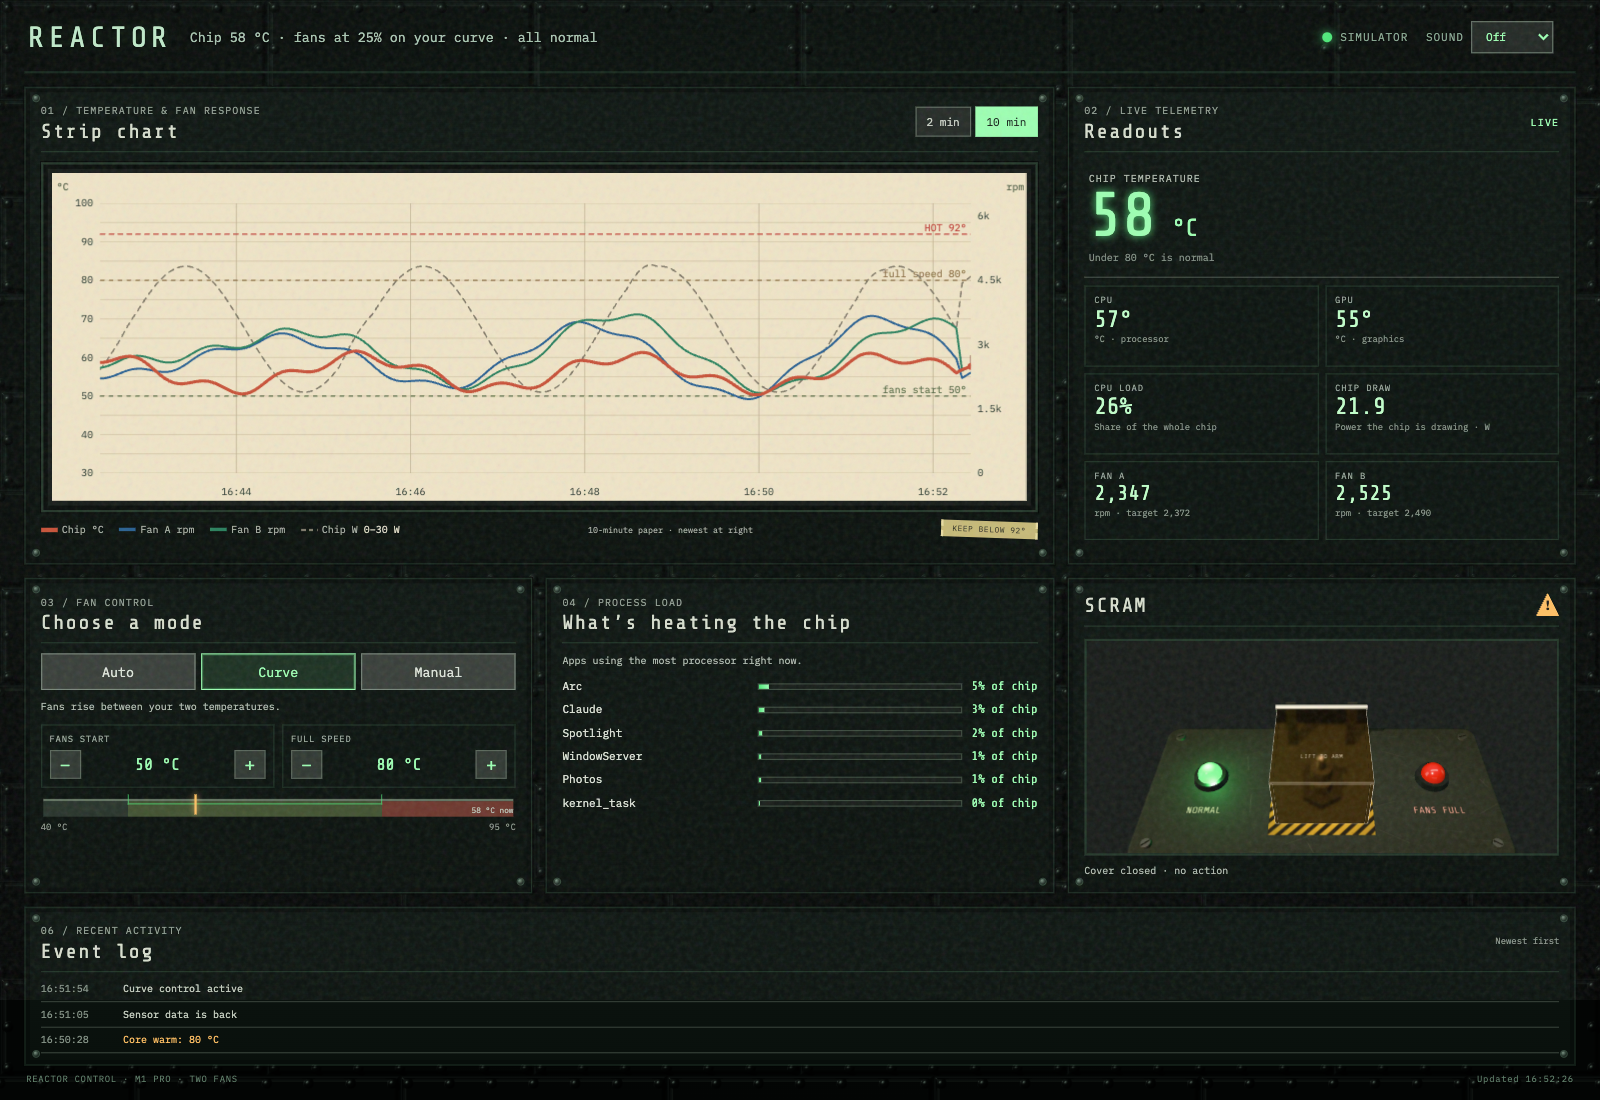
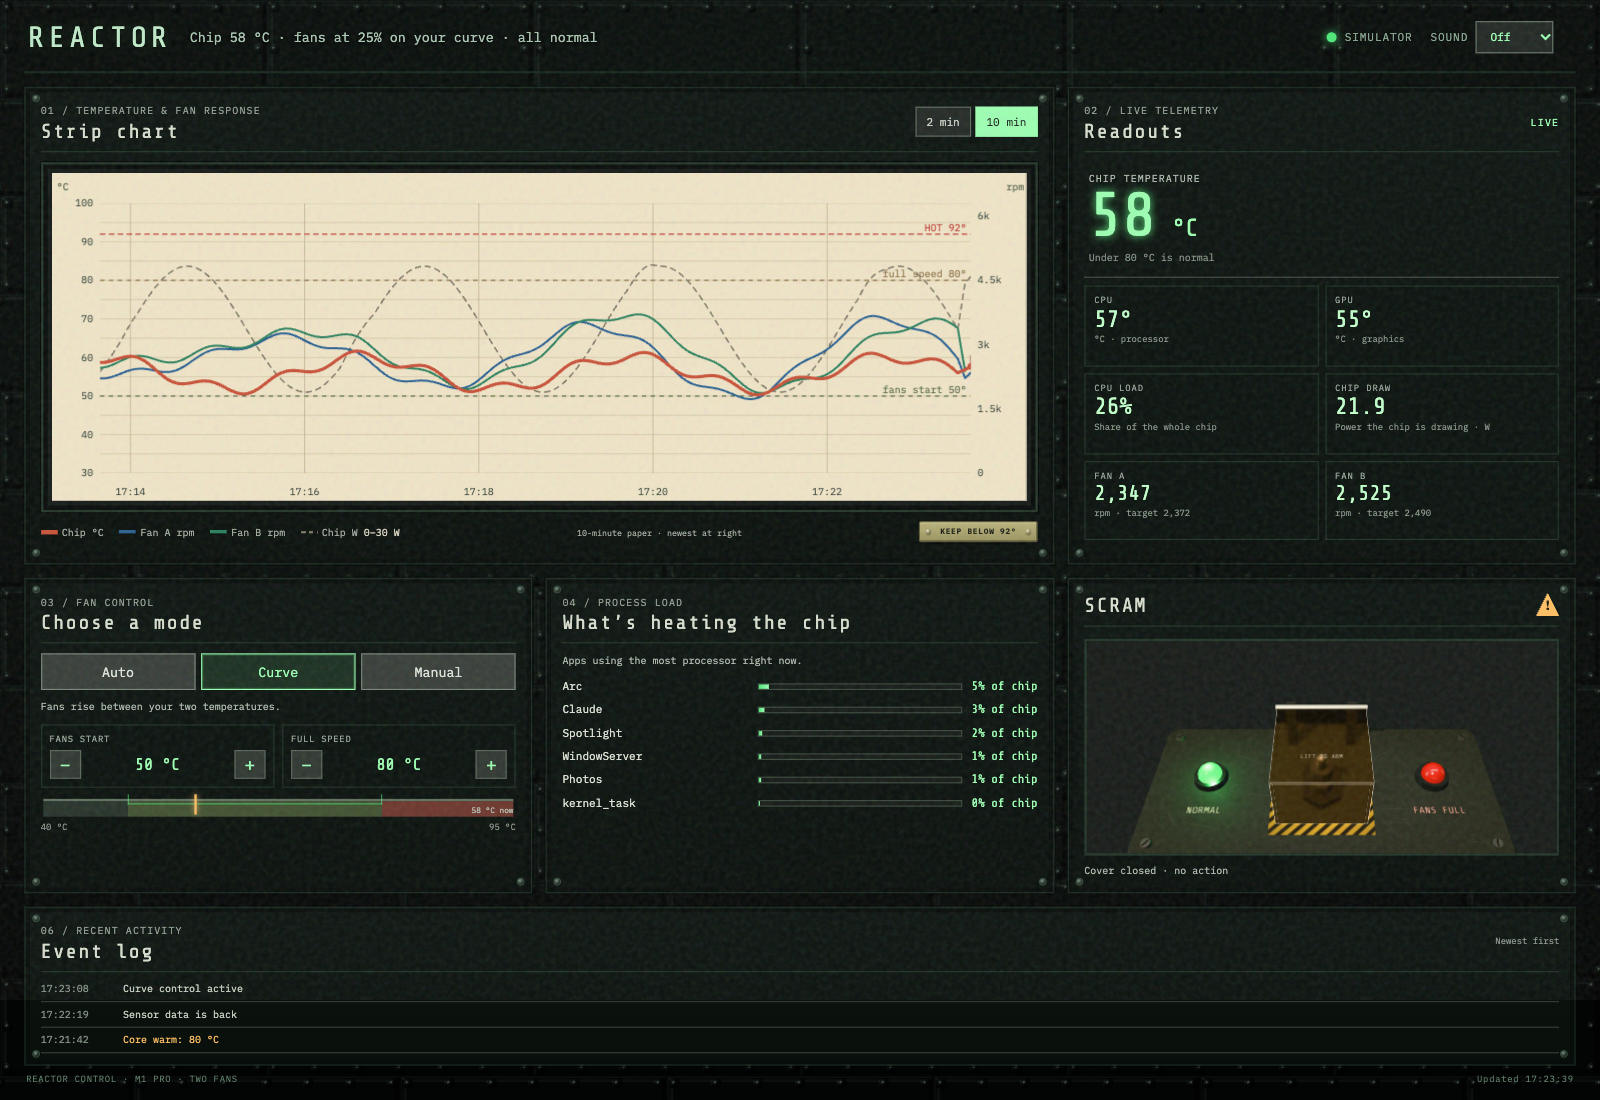
Straighten the KEEP BELOW 92 label and fix it to the chart with rivets

diff --git a/ui/app.css b/ui/app.css
@@ -30,7 +30,9 @@ button,input,select{font:inherit}button{cursor:pointer}button:focus-visible,inpu
 .mode-buttons{display:grid;grid-template-columns:repeat(3,minmax(0,1fr));gap:5px}.mode-buttons button{padding:8px 3px;background:#383e39;color:#dce4d9;border:1px solid #78867b}.mode-buttons button[aria-pressed="true"]{background:#1b3021;color:var(--green);border-color:var(--green);box-shadow:inset 0 0 0 1px #285d37}.caption{margin:8px 0 10px;color:#aeb9ae;font-size:9px;line-height:1.45}.active-controls{min-height:88px}.step-grid{display:grid;grid-template-columns:1fr 1fr;gap:7px}.step-control{min-width:0;padding:7px;background:#0a120e;border:1px solid #1f3326}.step-control>span,.slider-label>span{display:block;color:#96a499;font-size:8px;letter-spacing:.08em}.stepper{display:grid;grid-template-columns:28px 1fr 28px;align-items:center;gap:3px;margin-top:5px}.stepper button{height:26px;color:var(--green);background:#303832;border:1px solid #59665a;font-size:16px}.stepper output{color:var(--green);font:15px var(--display);text-align:center;white-space:nowrap}.preview-track{position:relative;height:16px;margin:10px 2px 0;border-top:2px solid #60715f;background:linear-gradient(90deg,#27332a 0 18%,#415130 18% 72%,#6d372d 72% 100%)}.preview-track:before{content:"";position:absolute;left:18%;right:28%;top:-6px;height:8px;border:1px solid var(--green2);border-top:0;opacity:.65}.preview-track i{position:absolute;left:50%;top:-6px;width:2px;height:18px;background:var(--amber);box-shadow:0 0 5px var(--amber)}.preview-track span{position:absolute;right:0;top:4px;color:#b9c0b3;font-size:7px}.range-labels{display:flex;justify-content:space-between;color:#879287;font-size:8px;margin-top:4px}.slider-label{display:flex;justify-content:space-between;align-items:center}.slider-label output{color:var(--green);font:17px var(--display)}input[type=range]{width:100%;margin:14px 0 2px;accent-color:var(--green2)}
 .process-list{display:grid;gap:8px;margin:8px 0 0;padding:0;list-style:none}.process-row{display:grid;grid-template-columns:minmax(68px,1fr) minmax(40px,1.1fr) auto;align-items:center;gap:8px;min-width:0}.process-name{overflow:hidden;color:#dbe1d5;font-size:10px;text-overflow:ellipsis;white-space:nowrap}.process-track{height:6px;background:#151b17;border:1px solid #3a493c}.process-track i{display:block;height:100%;background:linear-gradient(90deg,#4de879,#9dffb2)}.process-share{color:var(--green);font:11px var(--display);white-space:nowrap}.empty-process{color:#88958a;font-size:10px;padding:8px 0}.top-app-note{margin:11px 0 0;padding:7px 8px;color:#d9d9c8;background:#202722;border-left:2px solid var(--amber);font-size:9px;line-height:1.45}
 .scram-panel{transition:box-shadow .2s,border-color .2s}.scram-panel.scrammed{border-color:var(--red);box-shadow:inset 0 0 26px #ff665922,0 0 14px #ff665933}.hazard-mark{display:grid;place-items:center;width:21px;height:21px;color:#1d1b16;background:var(--amber);font-weight:700;clip-path:polygon(50% 0,100% 100%,0 100%)}.cover{position:relative;width:100%;height:37px;margin:2px 0 2px;color:#2b2117;background:repeating-linear-gradient(135deg,#b38c55 0 8px,#d0ad70 8px 16px);border:2px solid #57452e;box-shadow:inset 0 0 0 3px #372d20;font:10px var(--display);letter-spacing:.08em;transform-origin:top;transition:transform .22s}.cover.open{transform:perspective(280px) rotateX(48deg);filter:brightness(1.12)}.scram-button{width:100%;height:42px;color:#ffd2aa;background:radial-gradient(circle at 35% 25%,#e95e4b,#8e241d 63%,#4b1815);border:4px ridge #887668;box-shadow:0 3px 0 #291b18;font:19px var(--display);letter-spacing:.15em}.scram-button[aria-disabled="true"]{filter:saturate(.45);opacity:.72}.scram-note{margin:8px 0 0;color:#aeb9ae;font-size:9px;line-height:1.4}.scram-panel.scrammed .scram-note{color:var(--red);font-weight:600}
-.events-panel{padding-bottom:10px}.events-panel .panel-head{margin-bottom:4px}.events-panel .panel-head>small{color:#89958b;font-size:8px}.event-list{display:grid;grid-template-columns:minmax(0,1fr);gap:0;max-height:100px;overflow:auto;margin:0;padding:0;list-style:none}.event-row{display:grid;grid-template-columns:66px 1fr;gap:8px;padding:5px 0;border-bottom:1px solid #374139;color:#c2cbbd;font-size:9px;line-height:1.35}.event-row time{color:#829084}.event-row.alarm,.event-row.error{color:var(--red)}.event-row.warn{color:var(--amber)}.no-events{padding:7px 0;color:#829084;font-size:9px}.footerline{display:flex;justify-content:space-between;gap:10px;padding:7px 2px 0;color:#5f7d69;text-shadow:0 1px 2px #000;font-size:8px;letter-spacing:.08em}.tape-note{position:relative;z-index:2;flex:none;padding:3px 8px;color:#333426;background:#c6b977;border-inline:2px dashed #e7dba1;transform:rotate(2deg);font-size:7px;letter-spacing:.08em;white-space:nowrap}
+.events-panel{padding-bottom:10px}.events-panel .panel-head{margin-bottom:4px}.events-panel .panel-head>small{color:#89958b;font-size:8px}.event-list{display:grid;grid-template-columns:minmax(0,1fr);gap:0;max-height:100px;overflow:auto;margin:0;padding:0;list-style:none}.event-row{display:grid;grid-template-columns:66px 1fr;gap:8px;padding:5px 0;border-bottom:1px solid #374139;color:#c2cbbd;font-size:9px;line-height:1.35}.event-row time{color:#829084}.event-row.alarm,.event-row.error{color:var(--red)}.event-row.warn{color:var(--amber)}.no-events{padding:7px 0;color:#829084;font-size:9px}.footerline{display:flex;justify-content:space-between;gap:10px;padding:7px 2px 0;color:#5f7d69;text-shadow:0 1px 2px #000;font-size:8px;letter-spacing:.08em}.tape-note{position:relative;z-index:2;flex:none;padding:4px 18px;color:#1c1f17;background:linear-gradient(180deg,#b9b27a,#9a9460);border:1px solid #5f5c3a;border-radius:2px;box-shadow:inset 0 1px 0 #d6cf9c,inset 0 -1px 0 #6e6a42,0 1px 2px #000a;font-size:7px;font-weight:700;letter-spacing:.1em;white-space:nowrap}
+.tape-note:before,.tape-note:after{content:"";position:absolute;top:50%;width:5px;height:5px;margin-top:-2.5px;border-radius:50%;background:radial-gradient(circle at 35% 30%,#e8e3bd,#8a8458 55%,#4d4a2e);box-shadow:0 1px 1px #0008}
+.tape-note:before{left:5px}.tape-note:after{right:5px}
 @keyframes alarmFlash{50%{filter:brightness(.62)}}.statusbar.unacked{animation:alarmFlash 1s steps(2,start) infinite}.statusbar.unacked.danger{animation-duration:.65s}
 @media(max-width:1099px){.layout{grid-template-columns:repeat(6,minmax(0,1fr));grid-template-areas:"chart chart chart chart chart chart" "read read read read read read" "control control control apps apps apps" "scram scram scram events events events"}.chart-panel,.readout-panel{min-height:unset}.chart-bezel{height:300px}.metrics{grid-template-columns:repeat(3,minmax(0,1fr))}.chip-readout{display:flex;align-items:baseline;gap:6px}.chip-readout>span{margin-right:8px}.chip-readout small{margin-left:auto}.readout-panel .panel-head{margin-bottom:4px}}
 @media(max-width:650px){.shell{padding:8px}.statusbar{grid-template-columns:auto 1fr auto;gap:7px 10px}.brand{font-size:22px}.status-copy{grid-column:1/3;grid-row:2}.ack{grid-column:3;grid-row:2}.sim-lamp{grid-column:2;grid-row:1;justify-self:end}.sound-control{grid-column:3;grid-row:1}.layout{grid-template-columns:minmax(0,1fr);grid-template-areas:"chart" "read" "control" "apps" "scram" "events";gap:9px}.panel{padding:11px 12px}.chart-bezel{height:260px}.chart-footer{align-items:flex-start;flex-direction:column}.metrics{grid-template-columns:repeat(2,minmax(0,1fr))}.chip-readout strong{font-size:48px}.event-list{grid-template-columns:minmax(0,1fr)}.panel-head h1,.panel-head h2{font-size:16px}}
